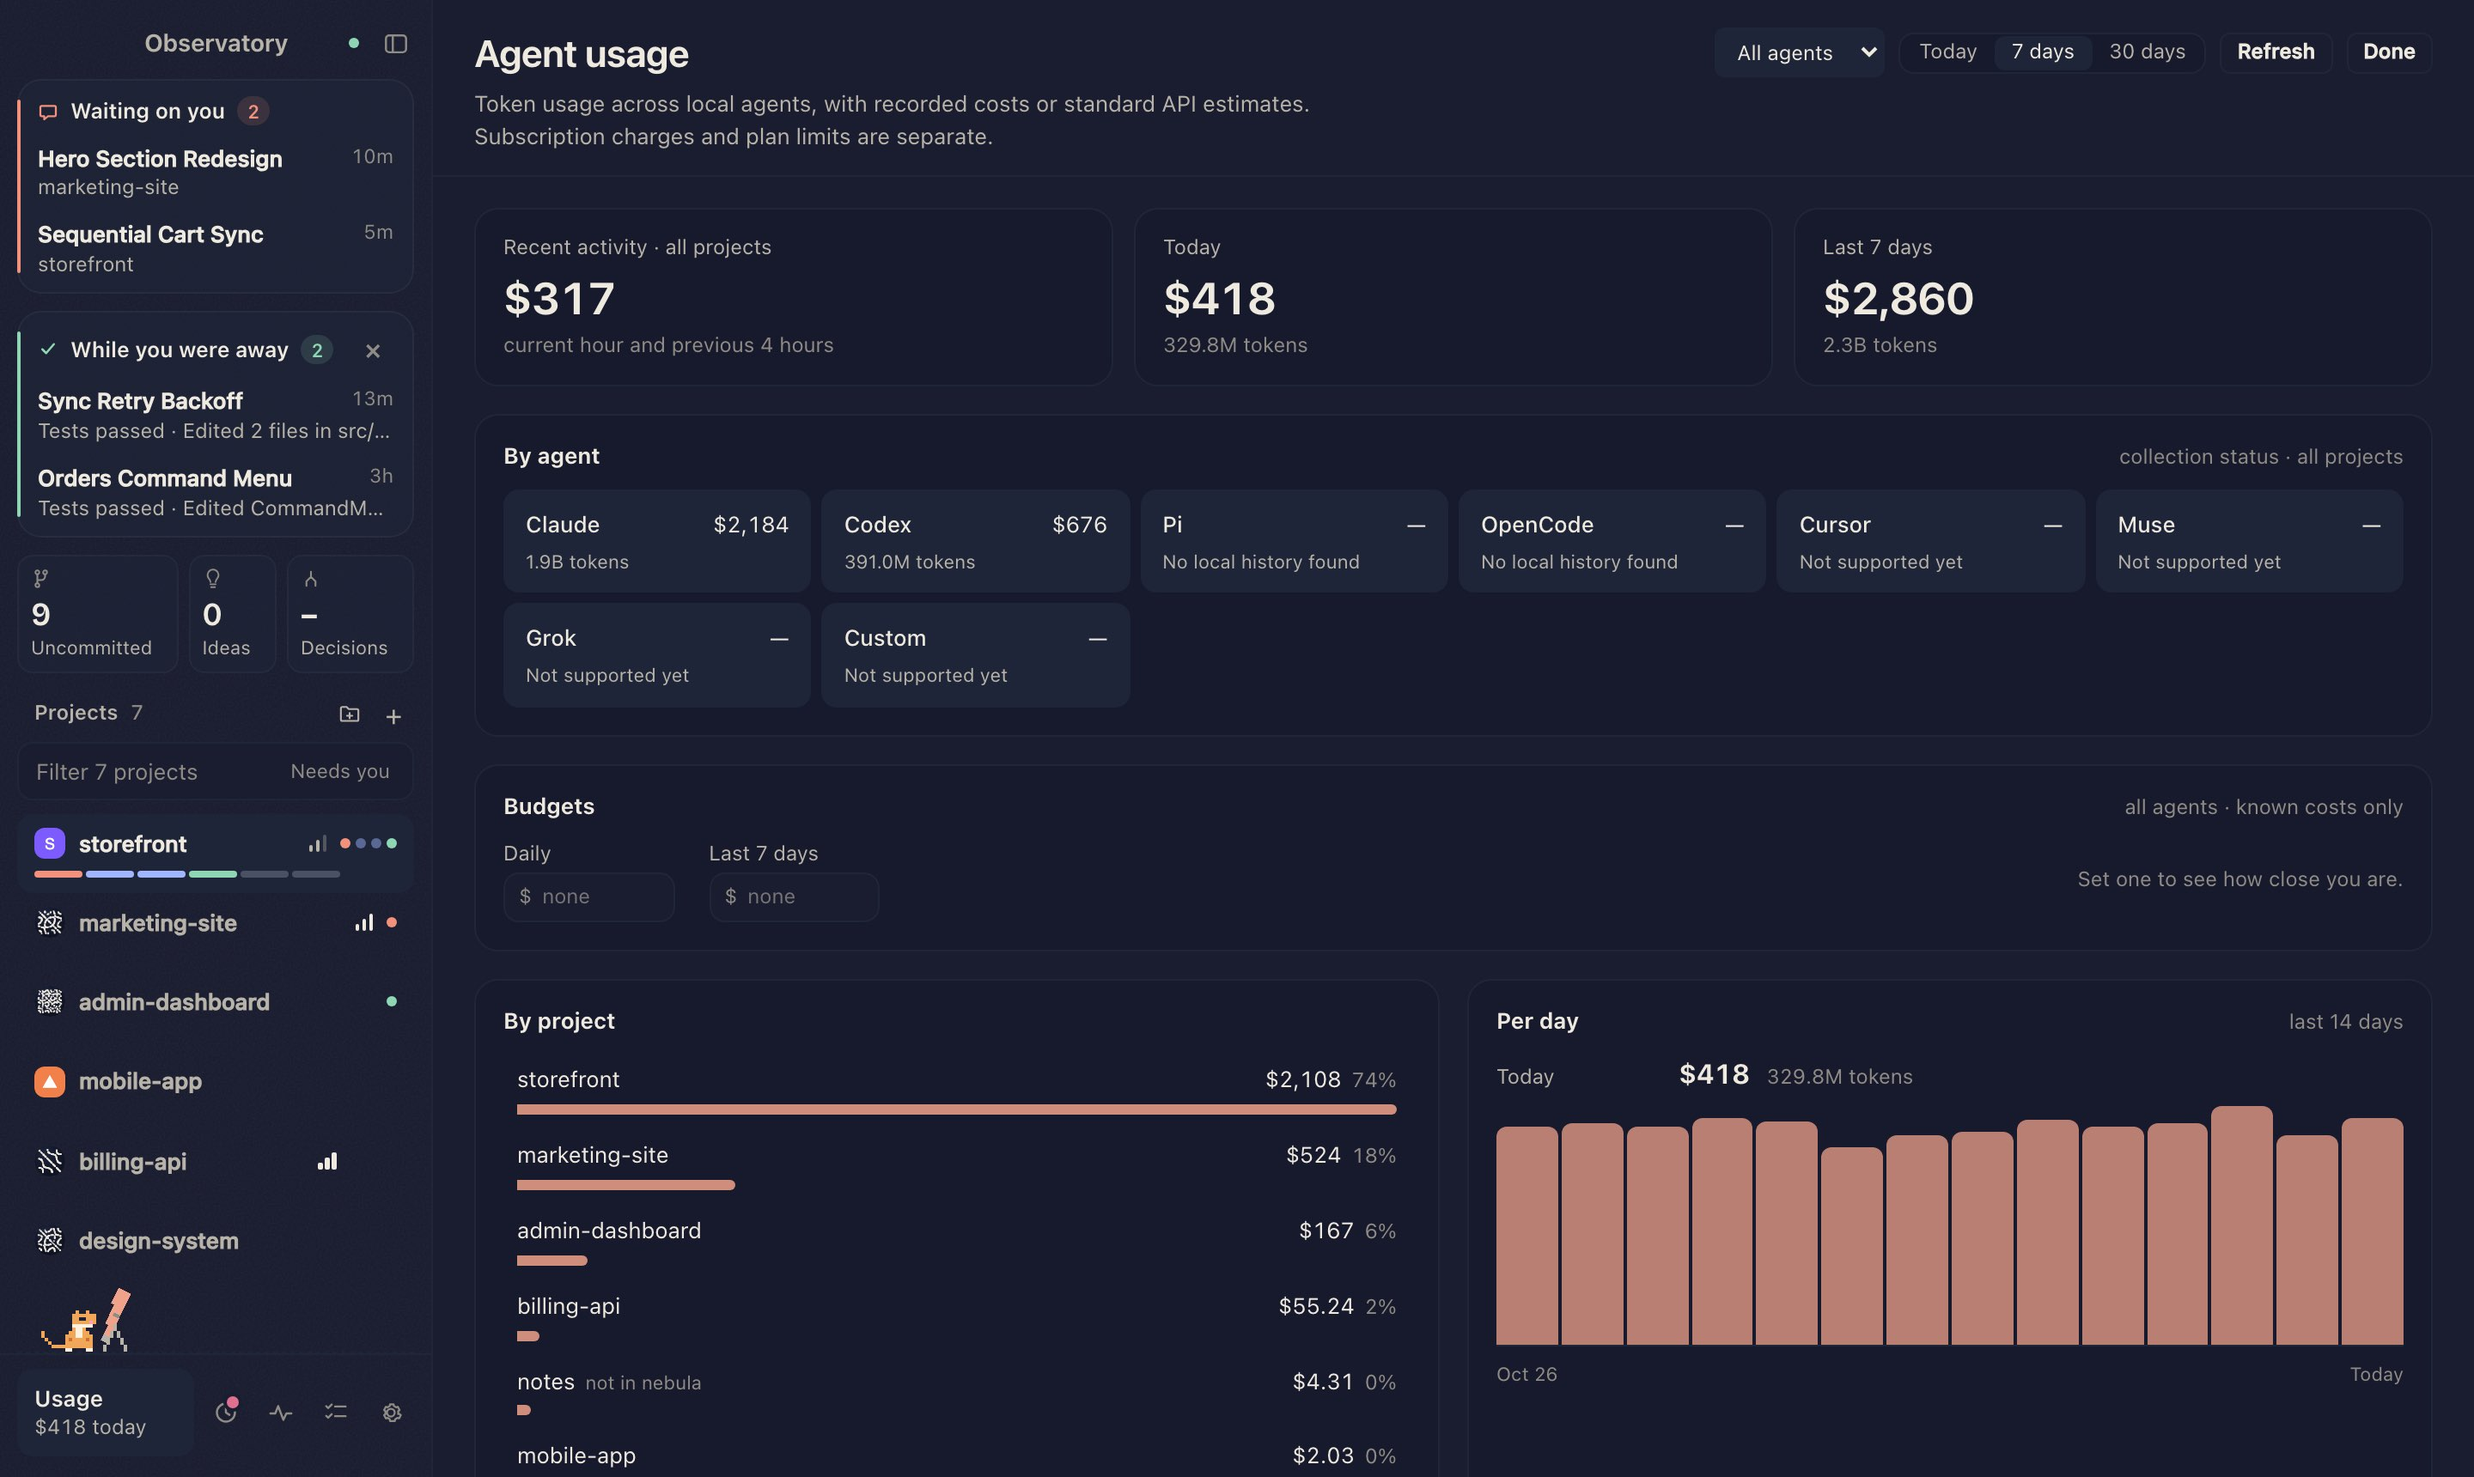
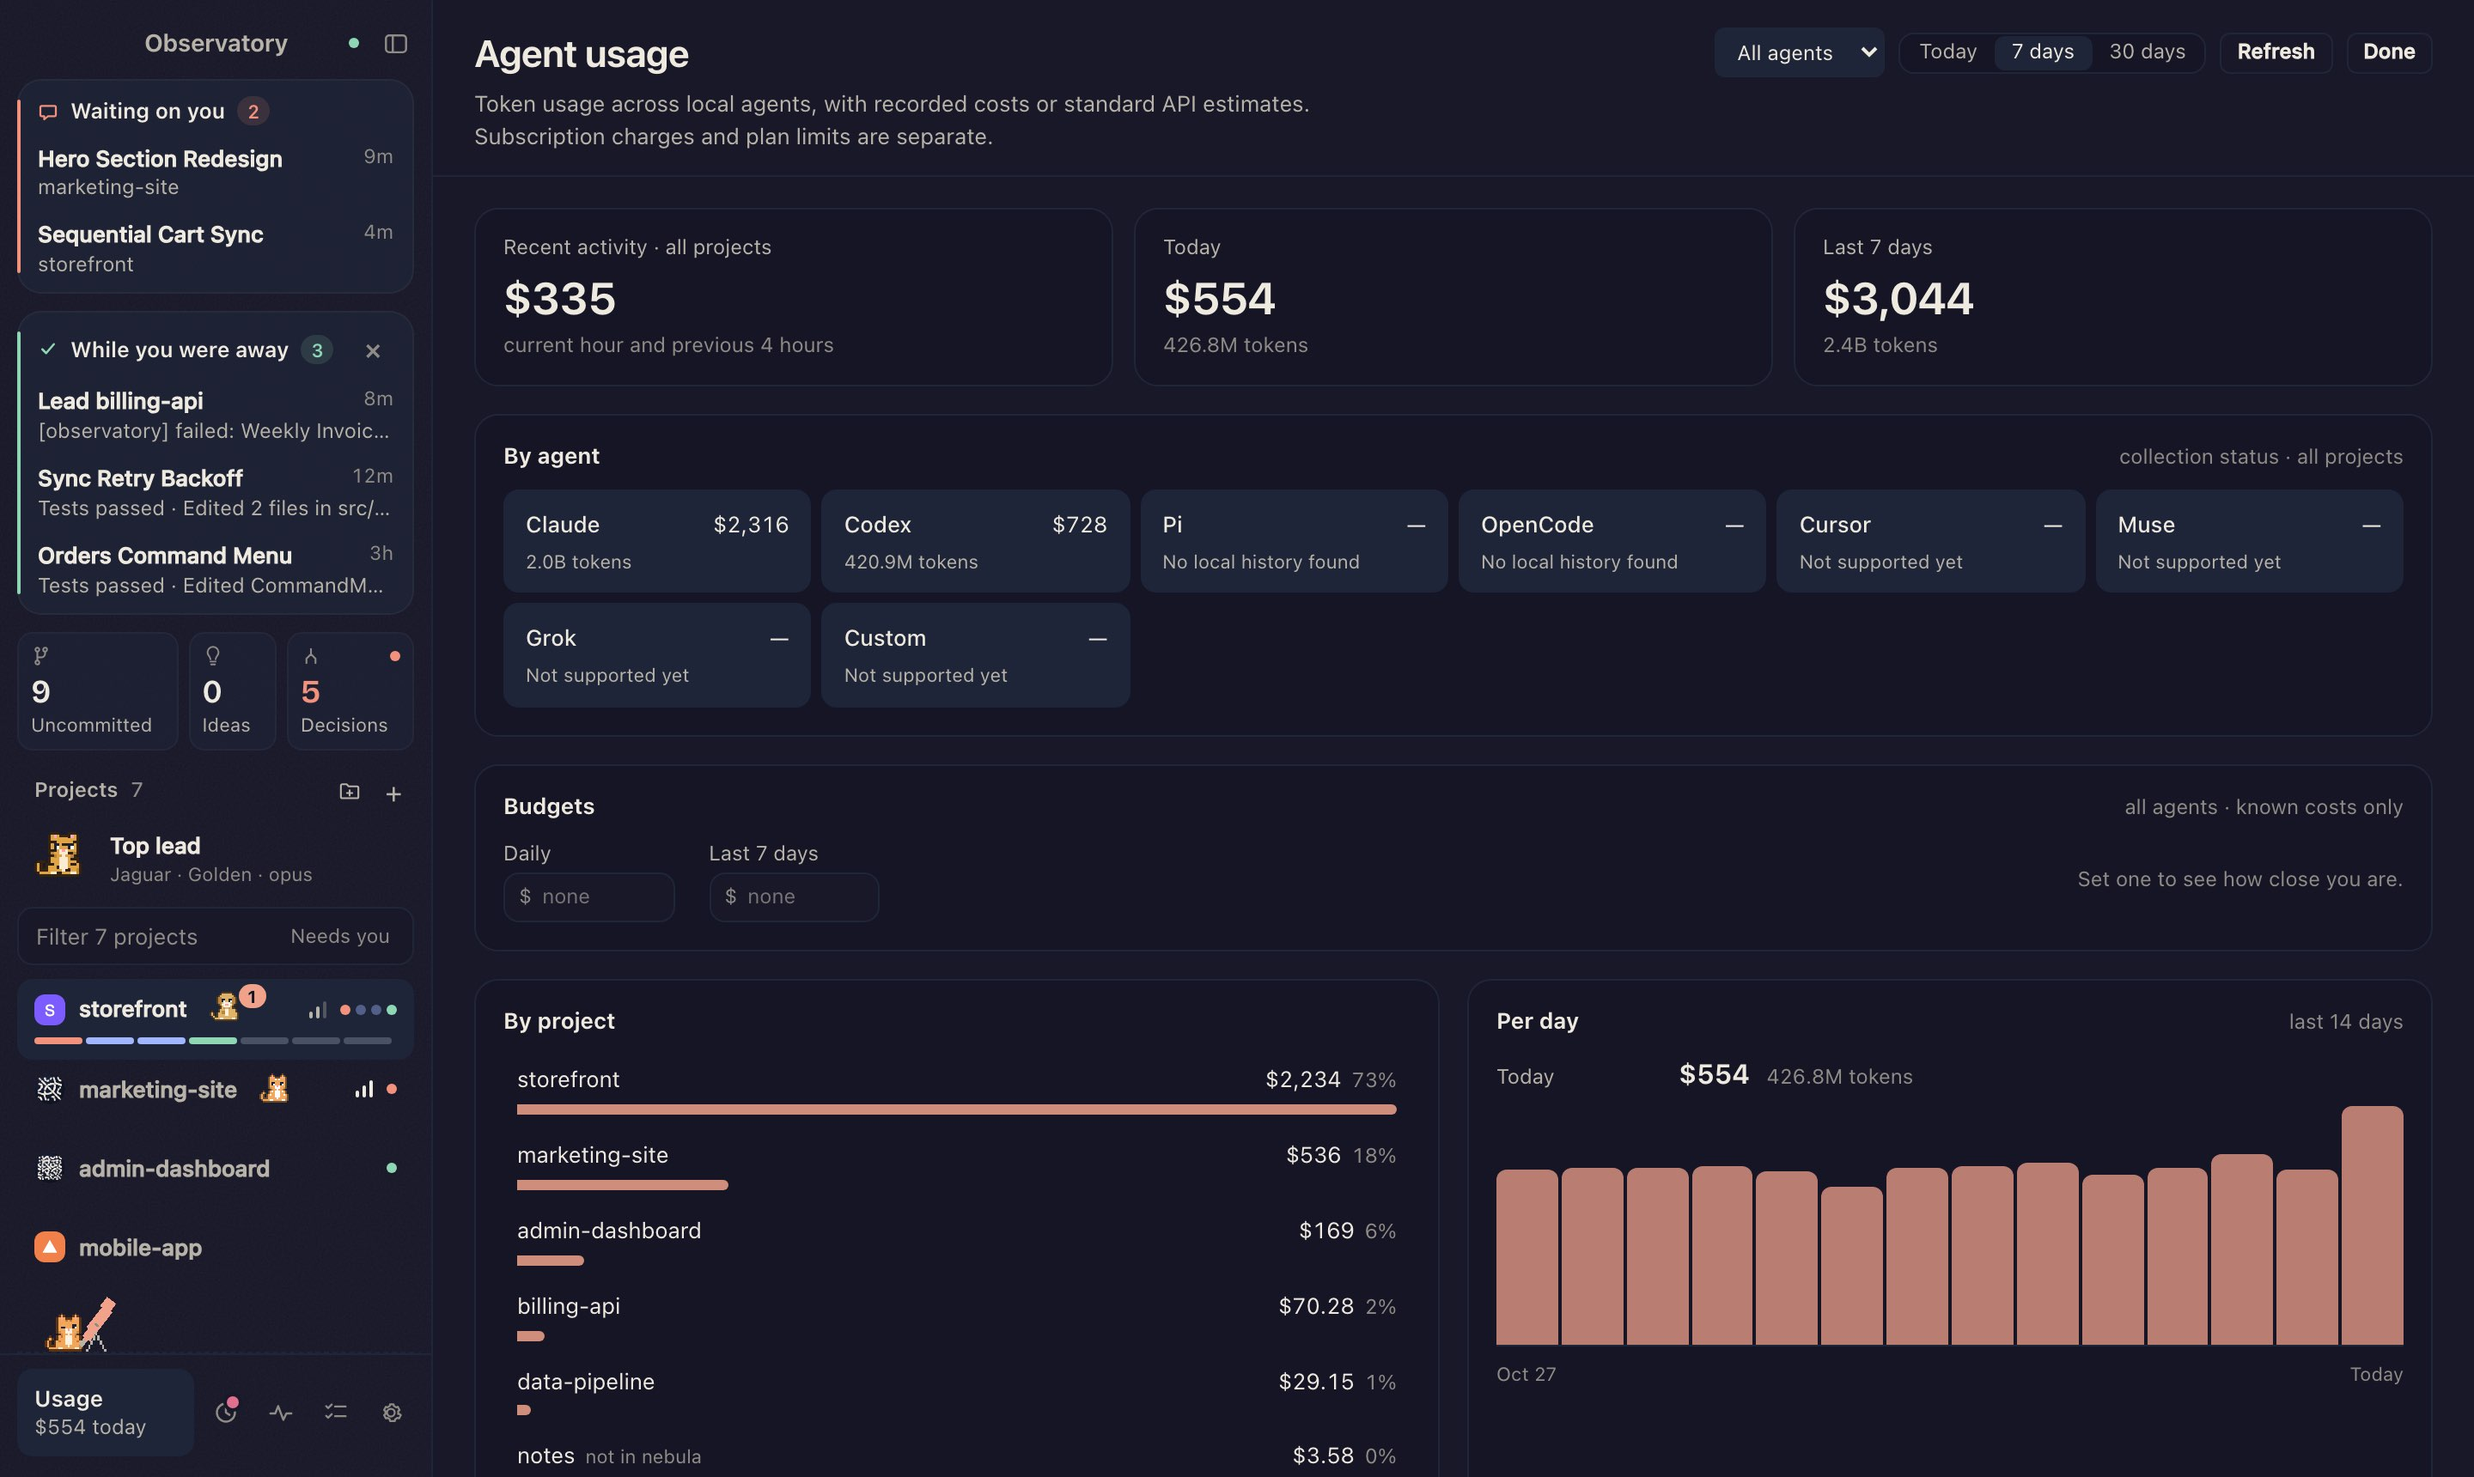
Version 0.15.0

diff --git a/docs/release/whats-new.md b/docs/release/whats-new.md
@@ -10,26 +10,25 @@
   underneath on its own.
 -->
 
-### The Read view keeps up with the whole thread
+### A lead for each project
 
-When an agent asks you questions one step at a time, the Read view shows each question with its choices, so you can answer it there. A command you run yourself with `! cmd` shows **Running…** while it works, then stays in the thread as a step with what it printed. You can keep talking to a thread while its subagents are still working. A finished reply can offer a few next prompts to send in one click (off by default; turn it on under Settings → Next-prompt suggestions).
+Start a lead from a project's card: a thread that hears about each task as it finishes, fails, needs you or opens a pull request. It answers tasks' questions about facts and past decisions, starts tasks from a sentence, nudges threads that stall, and asks you before it merges or archives anything. A top lead sits over every project and passes questions down to the project leads. Talk to a lead as its pet, in a dialogue along the bottom of the window (⌘L). Pick each lead's model from a list: leads start on Sonnet and the top lead on Opus, without changing your default.
 
-### Tags that do more
+### A triage queue that knows what needs you
 
-Turn on several tag chips at once to narrow the list. Give each tag a color, tag many picked threads at once with **Tags…**, and type `#tag` in ⌘K to find threads with that tag in every project.
+Open threads are ranked by what they need from you. Threads stuck on the same error, or close to their budget, are flagged. Threads idle for days move to Ideas, and new work waits when enough is already running. Dispatch tasks wait once spend is over budget, can go to projects without a card yet, and follow-ups reach finished and archived threads.
 
-### The night watch
+### Finished means checked and pushed
 
-In dark mode the sky changes through the night. A thread's sand plate fills in as its turns add up and warms the longer it waits. The Dock icon shows the plate of the thread that has waited longest. Projects with no icon get a sand plate of their own, and archived threads show as a grid of plates.
+A read-only reviewer checks a finished thread's changes before it shows as done. Turn on a card setting to push a thread's branch each time its turn ends.
 
 ### And smaller things
 
-- The preview shows every page of a PDF, with a page count and zoom.
-- A thread waiting on pull requests says **#N merged since** once they land.
-- Mark a draft pull request ready with one click from its branch.
-- Text you typed in the terminal and didn't send moves into the Read view's reply box.
-- Decisions stays open after you send an answer.
-- Follow up lists the newest flags first, and its header flips the order.
-- A prompt queued in the Read view no longer gets stuck behind a finished turn, and **Send now** sends it at once.
-- Long project names shrink to fit and end in an ellipsis.
-- A long archive opens without freezing the window.
+- Answer Decisions from the keyboard, put a card off till later, and see answered threads move along. Threads stopped on a terminal prompt show up there too.
+- Search every Settings tab from a box above the tabs.
+- Long decision options that wrap show as rounded boxes, and long links wrap instead of being cut off.
+- Decisions read correctly under "**Needs you.** My pick is in bold", and from an indented line under the question.
+- A decision asked again shows why it was asked the first time.
+- The sidebar and Read view cats are redrawn.
+- The terminal scrollbar stays faint until you scroll.
+- A dev build keeps its own settings, usage log and moments.
